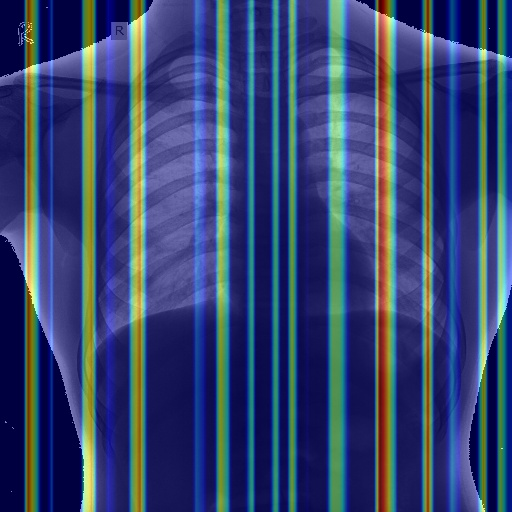
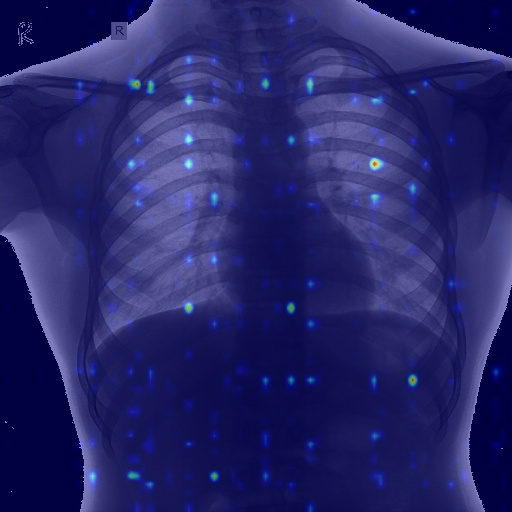
more work on gradcam..

diff --git a/gradcam.py b/gradcam.py
@@ -56,22 +56,32 @@ def grad_cam(prob, category_index, layer_name, sess, feed_dict, nb_classes = 2):
     loss = tf.multiply(prob, tf.one_hot([category_index], nb_classes))
     reduced_loss = tf.reduce_sum(loss[0])
     conv_output = sess.graph.get_tensor_by_name(layer_name + ':0')
+    print('conv_output.shape:', conv_output.shape)
     grads = tf.gradients(reduced_loss, conv_output)[0] # d loss / d conv
 
     output, grads_val = sess.run([conv_output, grads], feed_dict=feed_dict)
+    print('output (conv layer):', output.shape)
+    print('grads_val (grads of loss/conv_layer):', grads_val.shape)
     
     weights = np.mean(grads_val, axis=(1, 2)) # average pooling
-    cams = np.sum(weights * output, axis=3)
-    return cams
+
+    # cams = np.sum(weights * output, axis=3)
+    # cams = np.sum(grads_val * output, axis=3)
+    cams = grads_val * output
+    # return cams
+    return cams[0,0,:,:, np.newaxis]
+    # return output[0,0,:,:, np.newaxis]
 
 
 def save_cam(cams, rank, class_id, class_name, prob, image_batch, input_image_path):
     """
     save Grad-CAM images
     """
-    cam = cams[0] # the first GRAD-CAM for the first image in  batch
+    # cam = cams[0] # the first GRAD-CAM for the first image in  batch
+    cam = cams # the first GRAD-CAM for the first image in  batch
     image = np.uint8(image_batch[0][:, :, ::-1] * 255.0) # RGB -> BGR
     # cam = cv2.resize(cam, (224, 224)) # enlarge heatmap
+    print('cam.size:', cam.shape)
     cam = cv2.resize(cam, (512, 512)) # enlarge heatmap
     cv2.imwrite('cam.jpg', cam)
     cv2.imwrite('image.jpg', image)
@@ -167,7 +177,7 @@ def main():
         class_name = "tb"
         model=None
         # cams = grad_cam(prob_val, class_id, "content_vgg/conv5_3/Relu", sess, feed_dict={{'input:0': [batch_imgs], 'labels:0': batch_labs}})
-        cams = grad_cam(prob, class_id, 'conv2d_10/kernel', sess, feed_dict={'input:0': [batch_imgs], 'labels:0': batch_labs})
+        cams = grad_cam(prob, class_id, 'conv2d_11/kernel', sess, feed_dict={'input:0': [batch_imgs], 'labels:0': batch_labs})
 
         print('cams.shape:', cams.shape)
         print('cams:', cams)
